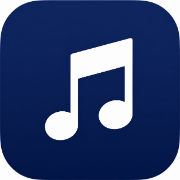
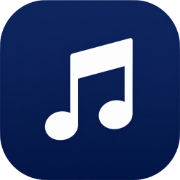
图标改透明圆角 + 独立 maskable 版，启动屏不再有白方框

diff --git a/sw.js b/sw.js
@@ -1,9 +1,10 @@
 /* SheetPlayer Service Worker：把应用外壳（player.html + pdf.js + 图标）缓存下来，离线可用。
    每次发布改动记得 bump VER，旧缓存会在 activate 时清掉。 */
-const VER='v1';
+const VER='v2';
 const CACHE='sheetplayer-'+VER;
 const ASSETS=['./','./index.html','./player.html','./manifest.json',
-  './lib/pdf.min.js','./lib/pdf.worker.min.js','./icon-192.png','./icon-512.png'];
+  './lib/pdf.min.js','./lib/pdf.worker.min.js',
+  './icon-192.png','./icon-512.png','./icon-512-maskable.png'];
 
 self.addEventListener('install',e=>{
   e.waitUntil(caches.open(CACHE).then(c=>c.addAll(ASSETS)).then(()=>self.skipWaiting()));
